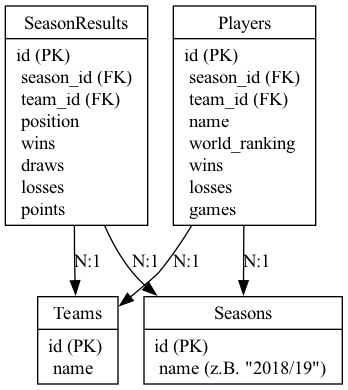
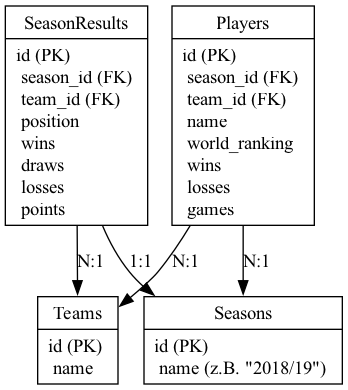
Database structure

diff --git a/TTBL-ERD.py b/TTBL-ERD.py
@@ -43,7 +43,7 @@ dot.node('Players', '''{
 
 # Beziehungen
 dot.edge('SeasonResults', 'Teams', label="N:1")
-dot.edge('SeasonResults', 'Seasons', label="N:1")
+dot.edge('SeasonResults', 'Seasons', label="1:1")
 dot.edge('Players', 'Teams', label="N:1")
 dot.edge('Players', 'Seasons', label="N:1")
 
